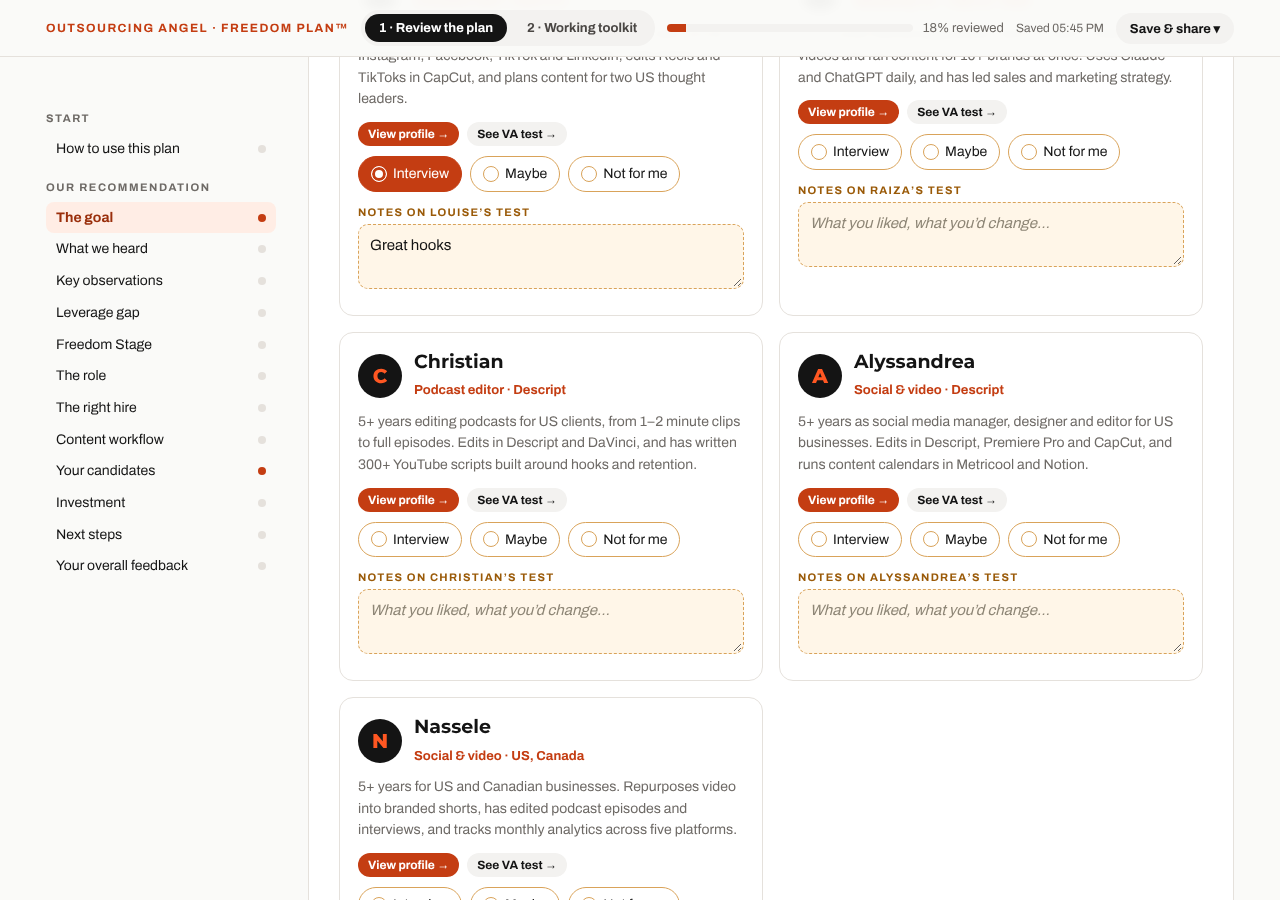
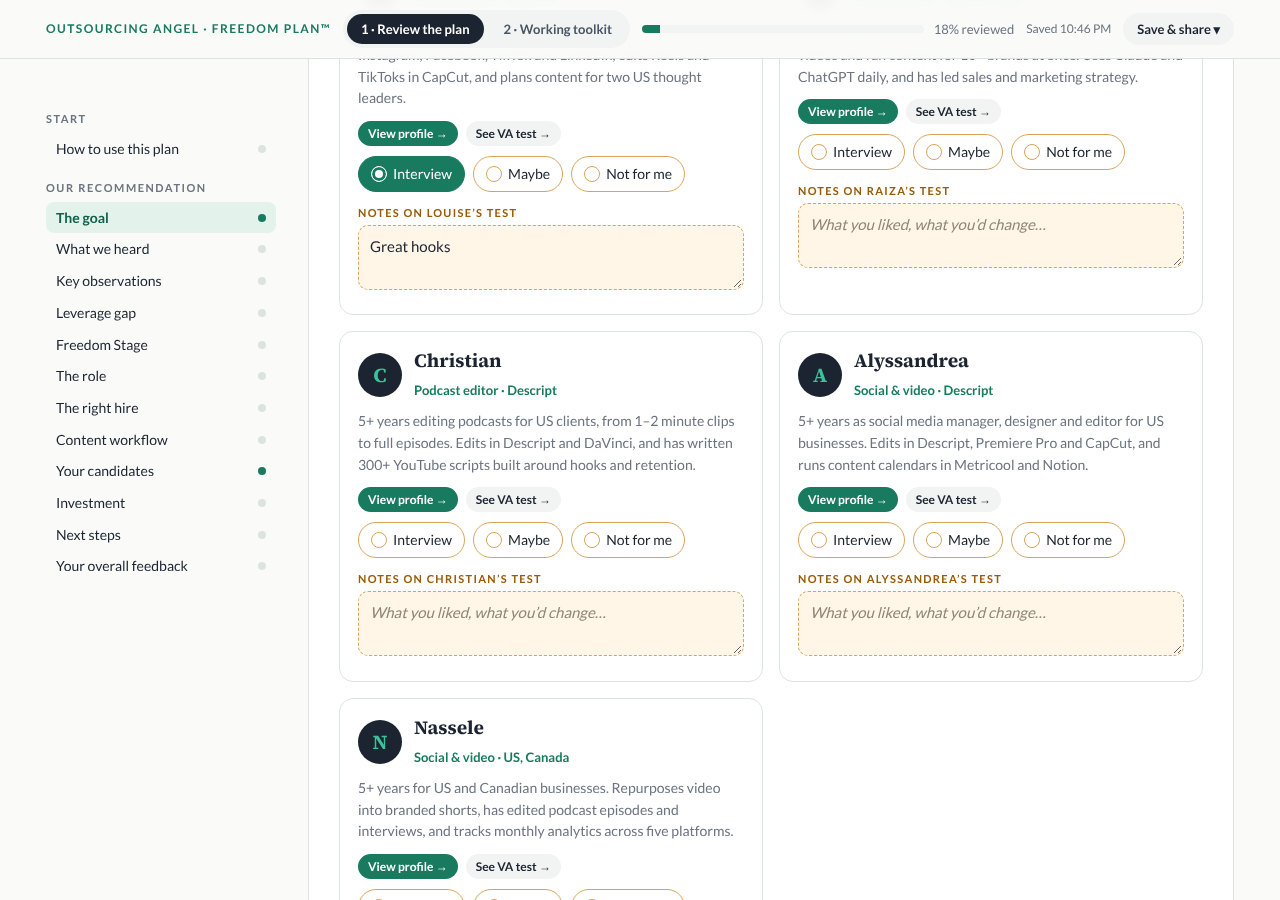
Use Outsourcing Angel branding in Matt Stone interactive plan
Claude-Session: https://claude.ai/code/session_018rW9XDNfHdsFfA3jVzx9xH

diff --git a/Matt_Stone_Freedom_Plan_Interactive.html b/Matt_Stone_Freedom_Plan_Interactive.html
@@ -5,13 +5,13 @@
 <meta name="viewport" content="width=device-width, initial-scale=1">
 <title>Matt Stone Freedom Plan</title>
 <link rel="preconnect" href="https://fonts.googleapis.com"><link rel="preconnect" href="https://fonts.gstatic.com" crossorigin>
-<link rel="stylesheet" href="https://fonts.googleapis.com/css2?family=Montserrat:wght@600;700;800&family=Archivo:wght@400;600;700&display=swap">
+<link rel="stylesheet" href="https://fonts.googleapis.com/css2?family=Source+Serif+4:wght@400..700&family=Lato:wght@400;700&display=swap">
 <style>
 :root{
-  --navy:#141414;--navy2:#262626;--bg:#FAFAF8;--card:#FFFFFF;--tint:#FFEDE5;--grey:#F3F2F0;--line:#E5E1DC;
-  --green:#C43D12;--deep:#9A2F0C;--mint:#FF5722;--body:#4A4744;--muted:#6E6A66;--amber:#9A5A08;--amberBg:#FFF6E8;--amberLine:#D9A35A;
+  --navy:#1B2430;--navy2:#243041;--bg:#FAFBF9;--card:#FFFFFF;--tint:#E4F2EC;--grey:#F1F4F2;--line:#DDE4E0;
+  --green:#187A5E;--deep:#11604A;--mint:#3CC29A;--body:#4A5563;--muted:#6B7480;--amber:#9A5A08;--amberBg:#FFF6E8;--amberLine:#D9A35A;
   --red:#B42318;--redBg:#FDECEA;
-  --serif:'Montserrat',Arial,sans-serif;--sans:'Archivo',Arial,sans-serif;
+  --serif:'Source Serif 4',Georgia,serif;--sans:'Lato',Arial,sans-serif;
 }
 *{box-sizing:border-box}
 html{scroll-behavior:smooth;scroll-padding-top:120px}
@@ -19,7 +19,7 @@ body{margin:0;background:var(--bg);color:var(--navy);font:16px/1.55 var(--sans)}
 a{color:var(--green)}
 h1,h2,h3{font-family:var(--serif);margin:0;line-height:1.15}
 p{margin:0}
-.bar{position:sticky;top:0;z-index:20;background:rgba(250,250,248,.97);backdrop-filter:blur(6px);border-bottom:1px solid var(--line)}
+.bar{position:sticky;top:0;z-index:20;background:rgba(250,251,249,.97);backdrop-filter:blur(6px);border-bottom:1px solid var(--line)}
 .bar-in{max-width:1220px;margin:auto;padding:10px 16px;display:flex;align-items:center;gap:12px;flex-wrap:wrap}
 .brand{font-weight:700;letter-spacing:.12em;font-size:12px;text-transform:uppercase;color:var(--green);white-space:nowrap}
 .tabs{display:flex;gap:6px;background:var(--grey);padding:4px;border-radius:99px}
@@ -43,7 +43,7 @@ nav.side a .dot{width:8px;height:8px;border-radius:50%;background:var(--line);fl
 nav.side a.done .dot{background:var(--green)}
 main{padding:24px 0 80px;min-width:0}
 .view{display:none}.view.on{display:block}
-.hero{background:var(--navy);color:#F6F4F1;border-radius:20px;padding:44px 44px;position:relative;overflow:hidden;margin-bottom:24px}
+.hero{background:var(--navy);color:#F4F6F3;border-radius:20px;padding:44px 44px;position:relative;overflow:hidden;margin-bottom:24px}
 .hero:after{content:"";position:absolute;right:-90px;top:-90px;width:300px;height:300px;border-radius:50%;background:var(--navy2)}
 .hero>*{position:relative;z-index:1}
 .eyebrow{font-size:12px;font-weight:700;letter-spacing:.16em;text-transform:uppercase;color:var(--green)}
@@ -51,7 +51,7 @@ main{padding:24px 0 80px;min-width:0}
 .hero h1{font-size:clamp(34px,5.5vw,56px);margin:12px 0 10px}
 .hero h1 span{color:var(--mint)}
 .hero .for{font-size:20px}
-.hero p.lead{color:#C9C4BE;max-width:700px;margin-top:12px}
+.hero p.lead{color:#BFC9D3;max-width:700px;margin-top:12px}
 section.s{background:var(--card);border:1px solid var(--line);border-radius:18px;padding:30px;margin-bottom:22px}
 section.s>header{margin-bottom:18px}
 section.s h2{font-size:29px;margin:6px 0 6px}
@@ -63,7 +63,7 @@ section.s h2{font-size:29px;margin:6px 0 6px}
 .card{background:var(--card);border:1px solid var(--line);border-radius:14px;padding:18px}
 .card.tint{background:var(--tint);border-color:var(--tint)}
 .card.grey{background:var(--grey);border-color:var(--grey)}
-.card.dark{background:var(--navy);border-color:var(--navy);color:#F6F4F1}
+.card.dark{background:var(--navy);border-color:var(--navy);color:#F4F6F3}
 .card h3{font-size:19px;margin-bottom:8px}
 .label{font:700 11px var(--sans);letter-spacing:.14em;text-transform:uppercase;color:var(--green);margin-bottom:8px;display:block}
 .note{font-size:14px;color:var(--muted)}
@@ -169,10 +169,9 @@ footer{text-align:center;color:var(--muted);font-size:13px;padding:30px 0}
   section.s{break-inside:avoid;border-color:#ccc}
   body{background:#fff}
 }
-.pill.ok{background:#E6F4EA;color:#1E6B3A}
 .cands{display:grid;grid-template-columns:repeat(auto-fill,minmax(280px,1fr));gap:16px}
 .cand-top{display:flex;gap:12px;align-items:center;margin-bottom:10px}
-.cand .av{width:44px;height:44px;border-radius:50%;background:var(--navy);color:var(--mint);display:grid;place-items:center;font:800 20px var(--serif);flex:none}
+.cand .av{width:44px;height:44px;border-radius:50%;background:var(--navy);color:var(--mint);display:grid;place-items:center;font:700 20px var(--serif);flex:none}
 .cand h3{font-size:19px}.csub{font-size:13px;color:var(--green);font-weight:700}
 .clinks{display:flex;gap:8px;flex-wrap:wrap;margin:12px 0 4px}.clinks a{text-decoration:none}
 @media print{.clinks a:after{content:" " attr(href);font-size:9px;word-break:break-all}}
@@ -214,7 +213,7 @@ footer{text-align:center;color:var(--muted);font-size:13px;padding:30px 0}
 <section class="s" data-title="How to use this plan" id="howto">
   <header><div class="eyebrow">Getting started</div><h2>How to use this interactive plan</h2><p class="sub">Two minutes to read. Everything you type saves automatically in this browser.</p></header>
   <div class="howto">
-    <div class="card"><div class="num">1</div><h3 style="margin-top:10px">Review</h3><p class="note">Go through tab 1. Tick, rate and comment in the sand-coloured boxes on each section.</p></div>
+    <div class="card"><div class="num">1</div><h3 style="margin-top:10px">Review</h3><p class="note">Go through tab 1. Tick, rate and comment in the amber boxes on each section.</p></div>
     <div class="card"><div class="num">2</div><h3 style="margin-top:10px">Pick candidates</h3><p class="note">Open each profile and test clip, then mark who you’d like to interview.</p></div>
     <div class="card"><div class="num">3</div><h3 style="margin-top:10px">Send feedback</h3><p class="note">“Save &amp; share” → “Download feedback summary”, and email it to Gail.</p></div>
     <div class="card"><div class="num">4</div><h3 style="margin-top:10px">Work together</h3><p class="note">From Day 1, use tab 2 with your Specialist: weekly rhythm, clip reviews, ideas and KPIs.</p></div>
@@ -226,7 +225,7 @@ footer{text-align:center;color:var(--muted);font-size:13px;padding:30px 0}
 <section class="s" data-title="The goal" id="goal" data-review>
   <header><div class="eyebrow">Part A · 01</div><h2>The goal</h2><p class="sub">What this plan is for, in one line.</p></header>
   <div class="grid2">
-    <div class="card dark"><div class="eyebrow" style="color:var(--mint)">A creative collaborator, not a scheduler</div><h3 style="font-size:28px;color:#F6F4F1;margin:8px 0 10px">More time on the bigger stage</h3><p style="color:#C9C4BE">Matt records, sells and grows, while the Specialist turns every conversation into content that brings people in.</p></div>
+    <div class="card dark"><div class="eyebrow" style="color:var(--mint)">A creative collaborator, not a scheduler</div><h3 style="font-size:28px;color:#F4F6F3;margin:8px 0 10px">More time on the bigger stage</h3><p style="color:#BFC9D3">Matt records, sells and grows, while the Specialist turns every conversation into content that brings people in.</p></div>
     <div class="card tint"><span class="label">Three outcomes we’re aiming for</span>
       <div class="out"><div class="num">1</div><b>Clips posted 3, then 5, then 7 days a week across TikTok, Instagram, YouTube Shorts and LinkedIn</b></div>
       <div class="out"><div class="num">2</div><b>Every back-catalogue episode and client interview turned into platform-ready content</b></div>
@@ -703,7 +702,7 @@ function downloadSummary() {
     if (sec.id === 'stage') { if (state['stage.today']) items.push(['Stage today', stages[state['stage.today'] - 1][0]]); if (state['stage.target']) items.push(['Month 6 target', stages[state['stage.target'] - 1][0]]); }
     if (items.length) rows.push(`<h2>${esc(sec.dataset.title)}</h2><table>${items.map(([a, b]) => `<tr><th>${esc(a)}</th><td>${esc(b)}</td></tr>`).join('')}</table>`);
   });
-  const doc = `<!doctype html><html><head><meta charset="utf-8"><title>Freedom Plan feedback</title><style>body{font:15px/1.5 Arial,sans-serif;max-width:820px;margin:30px auto;padding:0 16px;color:#141414}h1{color:#C43D12}h2{font-size:18px;margin-top:24px;color:#9A2F0C}table{width:100%;border-collapse:collapse}th,td{text-align:left;vertical-align:top;padding:6px 8px;border-bottom:1px solid #E5E1DC;white-space:pre-wrap}th{width:40%;font-weight:600}</style></head><body><h1>Freedom Plan feedback · The Bigger Stage</h1><p>${esc(state['fb.name'] || 'Matt Stone')} · ${esc(state['fb.date'] || todayISO())}</p>${rows.join('') || '<p>No feedback yet.</p>'}</body></html>`;
+  const doc = `<!doctype html><html><head><meta charset="utf-8"><title>Freedom Plan feedback</title><style>body{font:15px/1.5 Arial,sans-serif;max-width:820px;margin:30px auto;padding:0 16px;color:#1B2430}h1{color:#187A5E}h2{font-size:18px;margin-top:24px;color:#11604A}table{width:100%;border-collapse:collapse}th,td{text-align:left;vertical-align:top;padding:6px 8px;border-bottom:1px solid #DDE4E0;white-space:pre-wrap}th{width:40%;font-weight:600}</style></head><body><h1>Freedom Plan feedback · The Bigger Stage</h1><p>${esc(state['fb.name'] || 'Matt Stone')} · ${esc(state['fb.date'] || todayISO())}</p>${rows.join('') || '<p>No feedback yet.</p>'}</body></html>`;
   dl('Matt_Stone_Freedom_Plan_feedback.html', doc, 'text/html');
 }
 $('#dlBtn').onclick = downloadSummary;
